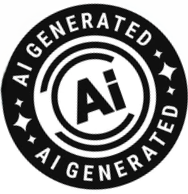
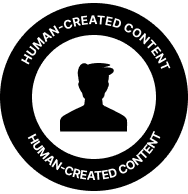
Changed AI-created to human-created

diff --git a/src/pages/HomePage.js b/src/pages/HomePage.js
@@ -4,10 +4,9 @@ function HomePage() {
   return (
     <div className="home-page">
       <div className="home-content">
-        <h1>AI Content Credibility Prototype</h1>
+        <h1>Content Credibility Prototype</h1>
         <p className="home-subtitle">
-          Explore four interface concepts for disclosing and reporting
-          AI-generated or copied content in a reels-style social media setting.
+          Explore four interface concepts for marking and verifying human-created content as being separate from AI-created content.
         </p>
 
         <div className="card-grid">
@@ -20,11 +19,6 @@ function HomePage() {
             title="Label"
             description="A small disclosure tag placed near post metadata."
             route="/label"
-          />
-          <DesignCard
-            title="Notification"
-            description="A warning shown before or during viewing."
-            route="/notification"
           />
           <DesignCard
             title="Reporting Flow"

diff --git a/src/pages/WatermarkPage.js b/src/pages/WatermarkPage.js
@@ -7,7 +7,7 @@ function WatermarkPage() {
   return (
     <MockupLayout
       title="Watermark Design"
-      description="This concept places a watermark image near the creator information area to indicate that AI-generated content is being shown. Only selected reels display the watermark."
+      description="This concept places a watermark image near the creator information area to indicate that human-created content is being shown. Only selected reels display the watermark."
       nextRoute="/label"
     >
       <ReelFeed
@@ -17,7 +17,7 @@ function WatermarkPage() {
             <div className="creator-info-area">
               <div className="creator-row">
                 <div className="creator-avatar"></div>
-                <span className="creator-name">@creator_name</span>
+                {/* <span className="creator-name">@creator_name</span> */}
               </div>
             </div>
 

diff --git a/src/pages/LabelPage.js b/src/pages/LabelPage.js
@@ -6,14 +6,14 @@ function LabelPage() {
   return (
     <MockupLayout
       title="Label Design"
-      description="This concept adds a small platform-style label to indicate that selected content was made with AI. Only reels identified as AI-generated display the label."
+      description="This concept adds a small platform-style label to indicate that selected content was made by a human and not AI. Only reels identified as human-created display the label."
       prevRoute="/watermark"
-      nextRoute="/notification"
+      nextRoute="/reporting"
     >
       <ReelFeed
         reels={reels}
         renderOverlay={(reel) =>
-          reel.isAI ? <div className="ai-label-pill">Made with AI</div> : null
+          reel.isAI ? <div className="ai-label-pill">Human-Created Content</div> : null
         }
       />
     </MockupLayout>

diff --git a/src/App.js b/src/App.js
@@ -4,7 +4,6 @@ import "./App.css";
 import HomePage from "./pages/HomePage";
 import WatermarkPage from "./pages/WatermarkPage";
 import LabelPage from "./pages/LabelPage";
-import NotificationPage from "./pages/NotificationPage";
 import ReportingPage from "./pages/ReportingPage";
 
 function App() {
@@ -14,7 +13,6 @@ function App() {
         <Route path="/" element={<HomePage />} />
         <Route path="/watermark" element={<WatermarkPage />} />
         <Route path="/label" element={<LabelPage />} />
-        <Route path="/notification" element={<NotificationPage />} />
         <Route path="/reporting" element={<ReportingPage />} />
       </Routes>
     </Router>

diff --git a/src/App.css b/src/App.css
@@ -282,9 +282,9 @@ body {
 .watermark-image-overlay {
   position: absolute;
   bottom: 150px;  
-  left: 29px;
+  left: 15px;
 
-  width: 30px;    
+  width: 42px;    
   height: auto;
 
   z-index: 3;
@@ -293,7 +293,7 @@ body {
 
 .ai-label-pill {
   position: absolute;
-  top:20px;
+  top:30px;
   left: 10px;
 
   background: rgba(55, 65, 81, 0.9);
@@ -358,7 +358,7 @@ body {
 
 .report-trigger-button {
   position: absolute;
-  top: 20px;
+  top: 30px;
   right: 16px;
   z-index: 3;
 

diff --git a/src/pages/ReportingPage.js b/src/pages/ReportingPage.js
@@ -30,7 +30,7 @@ function ReportingPage() {
     <MockupLayout
       title="Reporting Flow Design"
       description="This concept gives users a way to flag suspicious, copied, or AI-generated content through a simple reporting flow. Each reel can be reported individually."
-      prevRoute="/notification"
+      prevRoute="/label"
     >
       <ReelFeed
         reels={reels}
